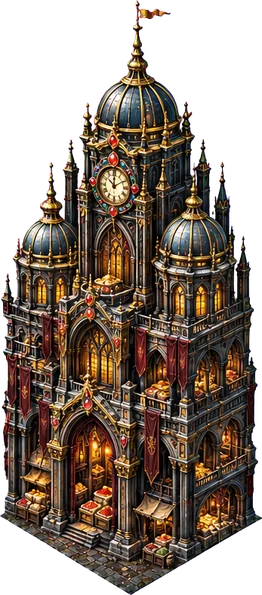
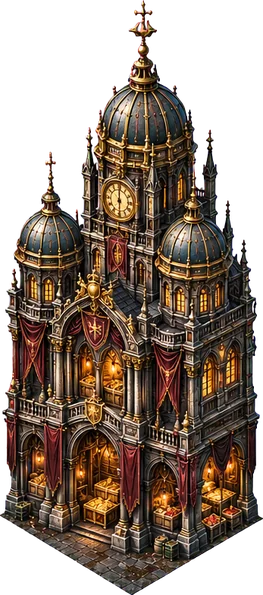
Art: levels 6-10 of all 43 island buildings, baked from tall 3x2 ChatGPT sheets (owner 2026-11-03: «надо начать генерацию изображений последующих уровней»)
Every building grows from level 6 to 10; the sheets that redrew the old stages or merged cells were painted again.
tools/art/isle_iso.py: the split of touching shapes no longer overwrites the grid's column count.

diff --git a/tools/art/isle_iso.py b/tools/art/isle_iso.py
@@ -80,8 +80,8 @@ def shapes(alpha, cols=4, nrows=2):
             break
         line = lines[0]
         lo, hi = int(line - 70), int(line + 70)
-        cols = (lab[:, lo:hi] == k + 1).sum(0)
-        cut = lo + int(np.argmin(cols))
+        prof = (lab[:, lo:hi] == k + 1).sum(0)
+        cut = lo + int(np.argmin(prof))
         n += 1
         right = lab == k + 1
         right[:, :cut] = False
